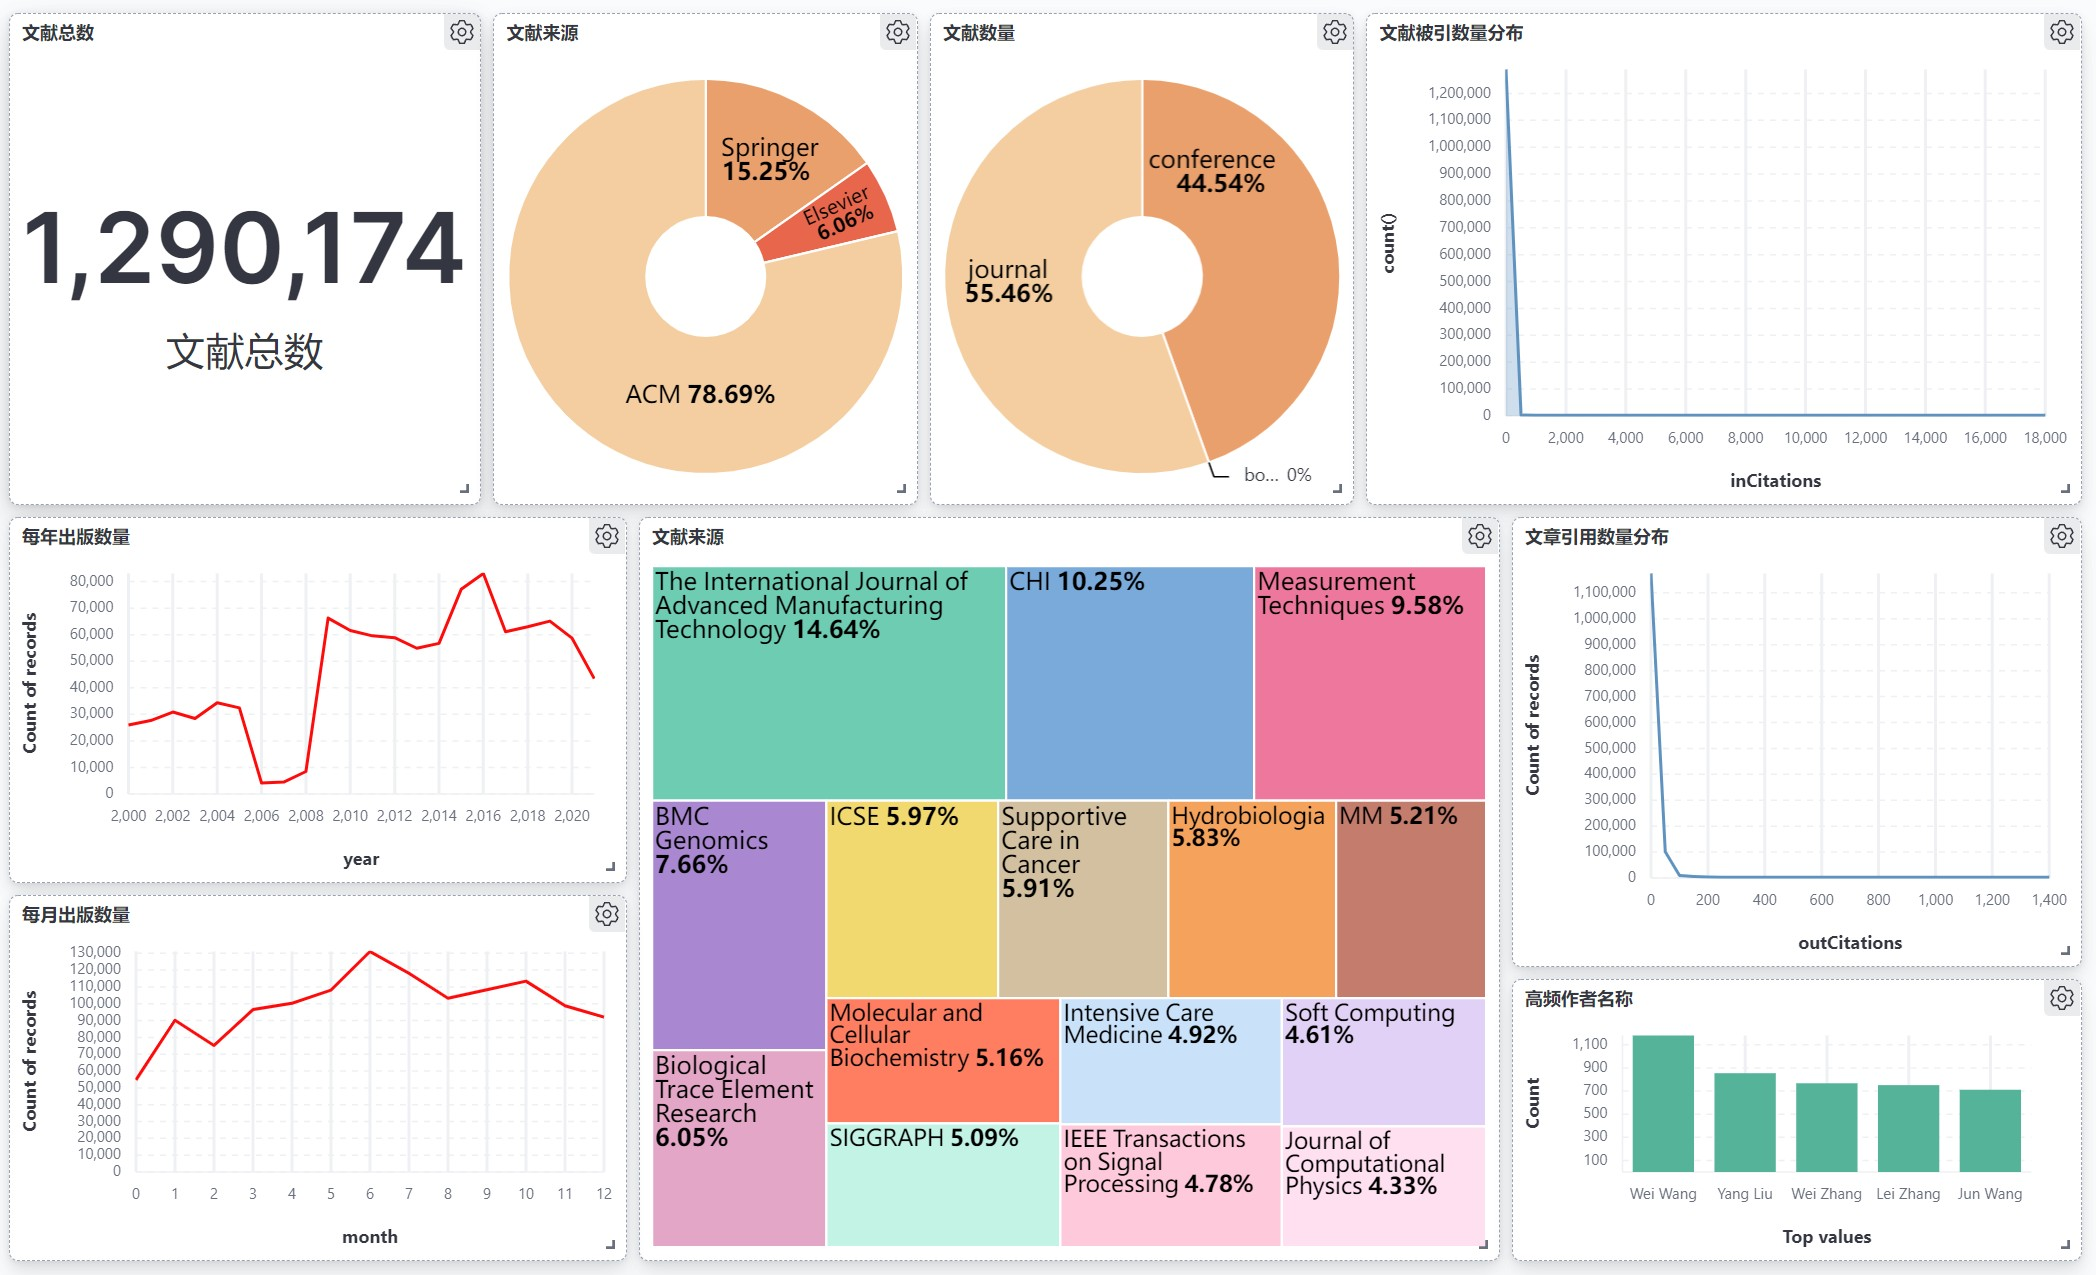
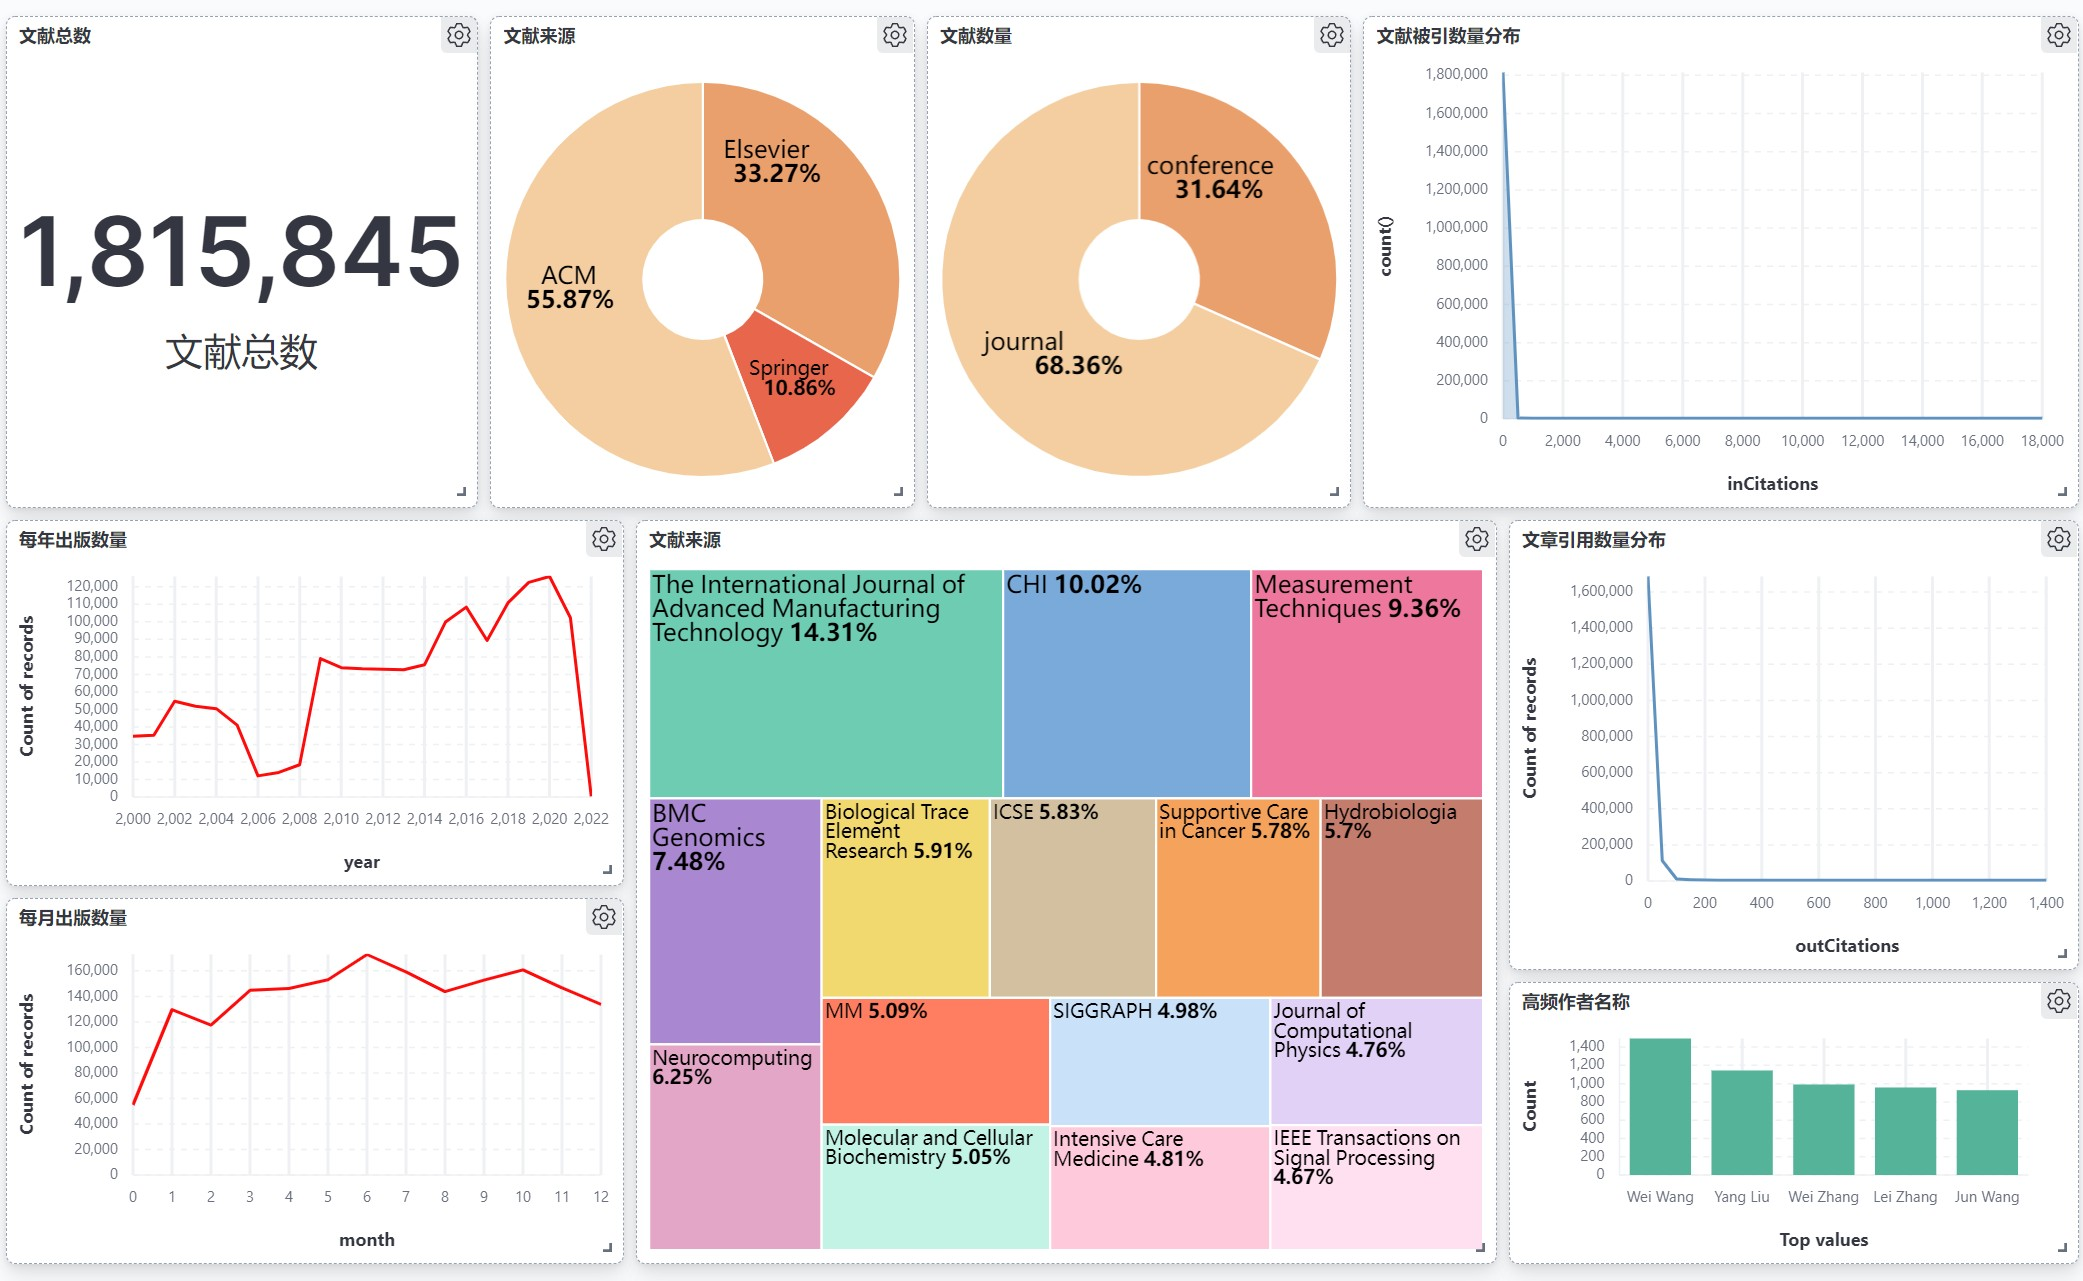
规范代码

diff --git a/Reptiles/Reptiles/spiders/ScienceDirect.py b/Reptiles/Reptiles/spiders/ScienceDirect.py
@@ -5,6 +5,9 @@ import json
 import logging
 import re
 import pymongo
+# import os
+# os.environ["http_proxy"] = "http://127.0.0.1:7890"
+# os.environ["https_proxy"] = "http://127.0.0.1:7890"
 
 wordtonumber = {
     'January': '1',
@@ -19,6 +22,7 @@ wordtonumber = {
     'October': '10',
     'November': '11',
     'December': '12',
+
 }
 
 
@@ -29,19 +33,24 @@ class SciencedirectSpider(scrapy.Spider):
 
     def __init__(self):
         super(SciencedirectSpider, self).__init__()
-        with open('./Reptiles/venue_cid', 'r') as f:
+        with open('venue_cid', 'r') as f:
             self.venue_list = f.readlines()
         self.client = pymongo.MongoClient(
-            host='127.0.0.1', port=27017, tz_aware=True)
+            host='localhost', port=27017, tz_aware=True)
         self.db = self.client.pc
         self.docs = self.db.get_collection("Process")
-        self.title = 'ScienceDirect'
+        self.title = 'ScienceDirectsys'
+        self.year = 2015
         self.config = self.docs.find_one({'title': self.title})
 
     def start_requests(self):
         logging.info('start_requests')
-        venue_id = int(self.config['venue_id'])
-        year = int(self.config['year'])
+        if self.config is None:
+            venue_id = 0
+            year = self.year
+        else:
+            venue_id = int(self.config['venue_id'])
+            year = int(self.config['year'])
 
         next_url = 'https://www.sciencedirect.com/search?date=' + str(year) + "&cid=" \
             + str(self.venue_list[venue_id]) + "&show=100&offset=0"
@@ -213,7 +222,17 @@ class SciencedirectSpider(scrapy.Spider):
                 outCitations = str(tmpstr[22:])
                 break
         item['outCitations'] = outCitations
-        item['pdf_url'] = item['url'] + '/pdfft'
+        pdf_url = ''
+        for paper_item in scripts:
+            tmpstr = re.search('"md5":"[a-zA-Z0-9]*"', paper_item.extract())
+            if tmpstr is not None:
+                md5 = tmpstr.group()[7:-1]
+                tmpstr = re.search(
+                    '"pid":"([a-zA-Z0-9]|\\-|\\.)*.pdf"', paper_item.extract())
+                pid = tmpstr.group()[7:-1]
+                pdf_url = response.url + '/pdf?md5=' + md5 + '&pid=' + pid
+                break
+        item['pdf_url'] = pdf_url
         # item['pdf_path'] = './PDF/ScienceDirect/' + re.sub(r'[^\w\s]', '', item['title']).lower().replace(' ','_')+'.pdf'
         item['pdf_path'] = ''
         pii = re.split('/', response.url)[-1]

diff --git a/Reptiles/Reptiles/spiders/Springer.py b/Reptiles/Reptiles/spiders/Springer.py
@@ -39,7 +39,7 @@ class SpringerSpider(scrapy.Spider):
         # getProxy().main()
         self.url = 'https://link.springer.com/search/page/{}?facet-content-type=%22{}%22'
 
-        self.client = pymongo.MongoClient(host='10.1.114.77', port=27017, tz_aware=True)
+        self.client = pymongo.MongoClient(host='localhost', port=27017, tz_aware=True)
         self.db = self.client.pc
         self.docs = self.db.get_collection("Process")
         self.config = self.docs.find_one({'title': 'Springer'})

diff --git a/Reptiles/Reptiles/pipelines.py b/Reptiles/Reptiles/pipelines.py
@@ -19,7 +19,7 @@ from .data_manager import ElasticsearchManager
 
 class ReptilesPipeline:
     def __init__(self):
-        self.client = pymongo.MongoClient(host='10.1.114.77', port=27017, tz_aware=True)
+        self.client = pymongo.MongoClient(host='localhost', port=27017, tz_aware=True)
         self.ela_client = ElasticsearchManager()
 
     def process_item(self, item, spider):

diff --git a/README.md b/README.md
@@ -78,38 +78,38 @@
 
 ## <span id="head11"> 整体效果</span>
 
-- 数据库中共有记录1290137条
+- 数据库中共有记录1815845条
 
-- 下载PDF共***篇
+- 下载PDF共237977篇
 
 
   **具体统计**（注：由于增量式爬取，有些论文被多个网站爬取，各网站爬取之和多于数据库记录）
 
   | 网站名        | 爬取数量 | 下载PDF数量 |
   | ------------- | -------- | ----------- |
-  | ACM           |   1015174   |   197884       |
-  | Springer      |  196789   |        |
-  | ScienceDirect |  78174  |    0    |
+  | ACM           |   1014506    |   197884       |
+  | Springer      |  197272   |  40093     |
+  | ScienceDirect |  604067  |    0    |
 
   | 字段名          | 数量   | 覆盖率 | 
   | ------------   | ------ | ------ |
-  | title          | 1290137 |  100.00% |
-  | abstract       |  1217294 |  94.35%  |                                                              
-  | authors        | 1290137 |  100.00%  |                                                              
-  | doi            | 1069871 |  82.93% |                                                              
-  | url            | 1290137 |  100.00% |  
-  | year           |  1235394 |  95.76% |                                          
-  | month          | 1235394 |  95.76% |                                                              
-  | type           | 1290137 | 100.00%  |                                                              
-  | venue          | 1290125 |  100.00% |                                                              
-  | source         | 1290137 | 100.00% |                                                              
-  | video_url      | 18839  |  1.46%  |                                         
-  | video_path     |   18839 |  1.46%  |                                                              
-  | thumbnail_url  | 18839  | 1.46% |                                                              
-  | pdf_url        | 385177 | 29.86% |                                                              
-  | pdf_path       | 385177  |  29.86% |                                         
-  | inCitations    | 1158297   |  89.78%   |                                                              
-  | outCitations   | 1241198  | 96.21% |
+  | title          | 1815845 |  100.00% |
+  | abstract       |  1254346 |  69.08% |                                                              
+  | authors        | 1790760 |  98.62%  |                                                              
+  | doi            | 1595599 |  87.87%|                                                              
+  | url            | 1815845 |  100.00% |  
+  | year           |  1760724 |  96.96%|                                          
+  | month          | 1760722 |  96.96% |                                                              
+  | type           | 1815845 |  100.00%|                                                              
+  | venue          | 1815833 |  100.00% |                                                              
+  | source         | 1815845 | 100.00% |                                                              
+  | video_url      | 18841  |  1.04%  |                                         
+  | video_path     |   18841 |  1.04%  |                                                              
+  | thumbnail_url  | 18841  | 1.46% |                                                              
+  | pdf_url        | 916891 |  50.49% |                                                              
+  | pdf_path       | 916891  |  50.49% |                                         
+  | inCitations    | 1202192   |  66.21%  |                                                              
+  | outCitations   | 1285093  | 70.78%  |
 
 ## <span id="head12"> 执行方法</span>
 
@@ -289,7 +289,7 @@ cd /usr/local/mongodb/
 - 更改脚本权限 ```chmod +x run.sh```
 
 - 运行脚本 ```./run.sh ACM```
-其中ACM可替换为其他爬取源，包括Springer,ScienceDirect.爬虫运行日志位于Logs文件内
+其中ACM可替换为其他爬取源，包括Springer,ScienceDirect。爬虫运行产生的日志位于Logs文件内。
 
 ## <span id="head16"> 第三方库依赖</span>
 参见`./requirements.txt`
@@ -502,7 +502,7 @@ Mongo.mongodb_find(site, field, value)
 
 2. 数据可视化
 
-    访问Elasticsearch控制台localhost:5601，并在dashboard中找到数据，可根据提供api自定义可视化控件。
+    访问Elasticsearch控制台localhost:5601，并在dashboard的paper索引中找到数据，可根据提供api自定义可视化控件。
 ![elastic](./extra/elastic.jpg)
 
 ## <span id="head27"> 代码结构</span>
@@ -510,10 +510,9 @@ Mongo.mongodb_find(site, field, value)
 ```
 │  README.md
 │  requirements.txt
-│
+│  prepare.py //准备脚本
 └─Reptiles
     │  scrapy.cfg
-    │  start.bat
     │  run.sh //启动脚本
     └─Reptiles
         │  convert_json.py
@@ -525,10 +524,8 @@ Mongo.mongodb_find(site, field, value)
         │  proxy.py //ip池爬取
         │  settings.py //爬虫配置文件，包括日志，文件下载路径等
         │  __init__.py
-        │
         ├─configs
         │      proxylist_big.txt //代理ip存放文件
-        │
         └─spiders
                 ACM.py // ACM网站解析逻辑
                 ScienceDirect.py //ScienceDirect网站解析逻辑
